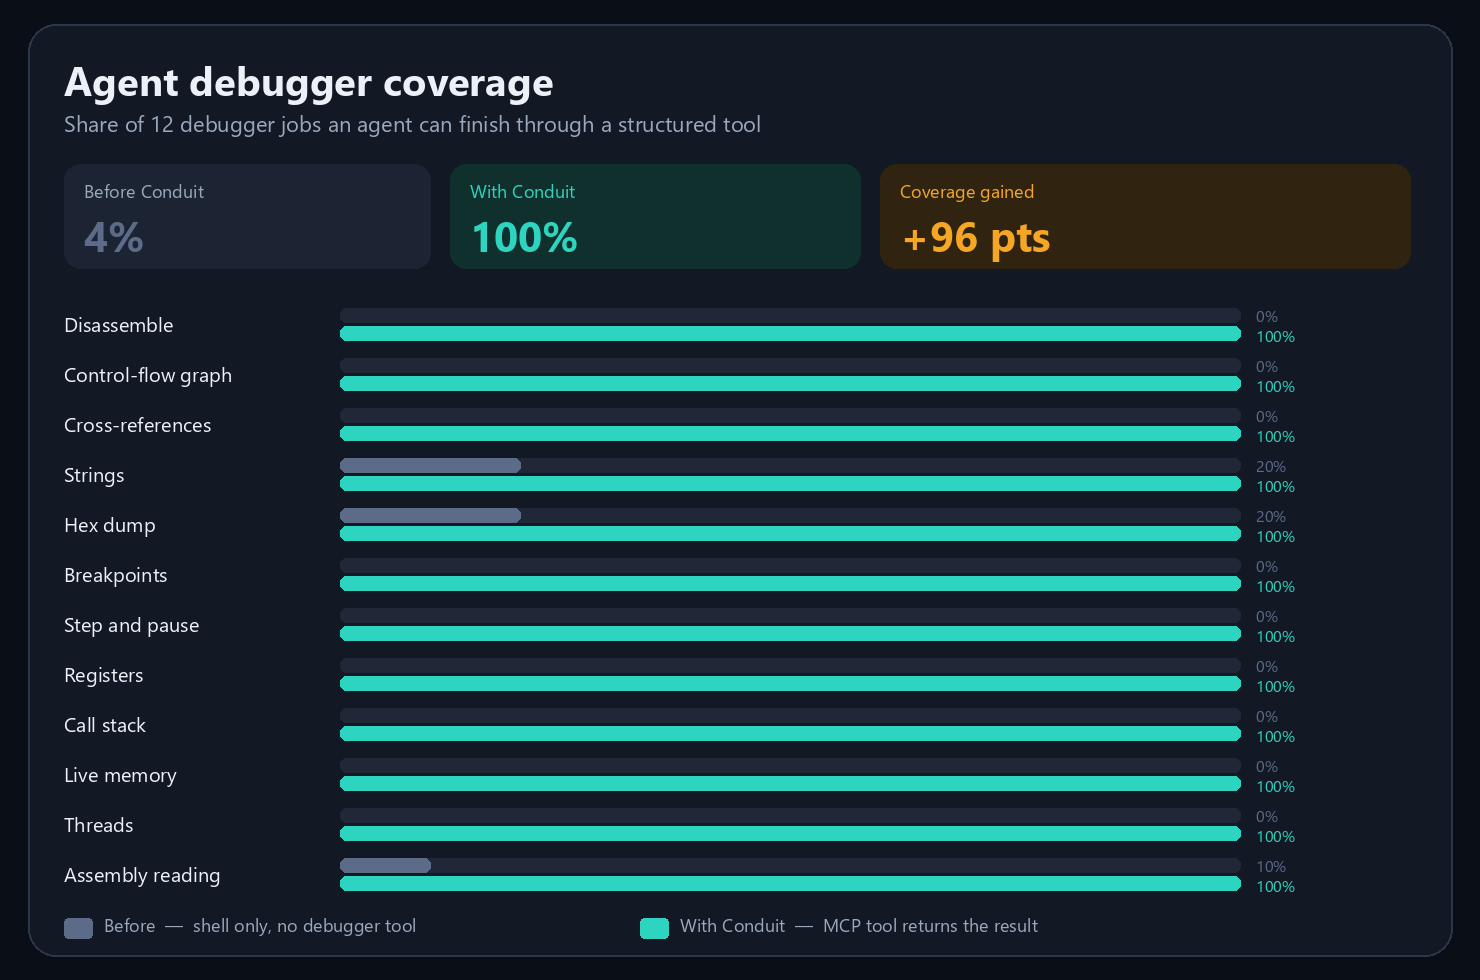
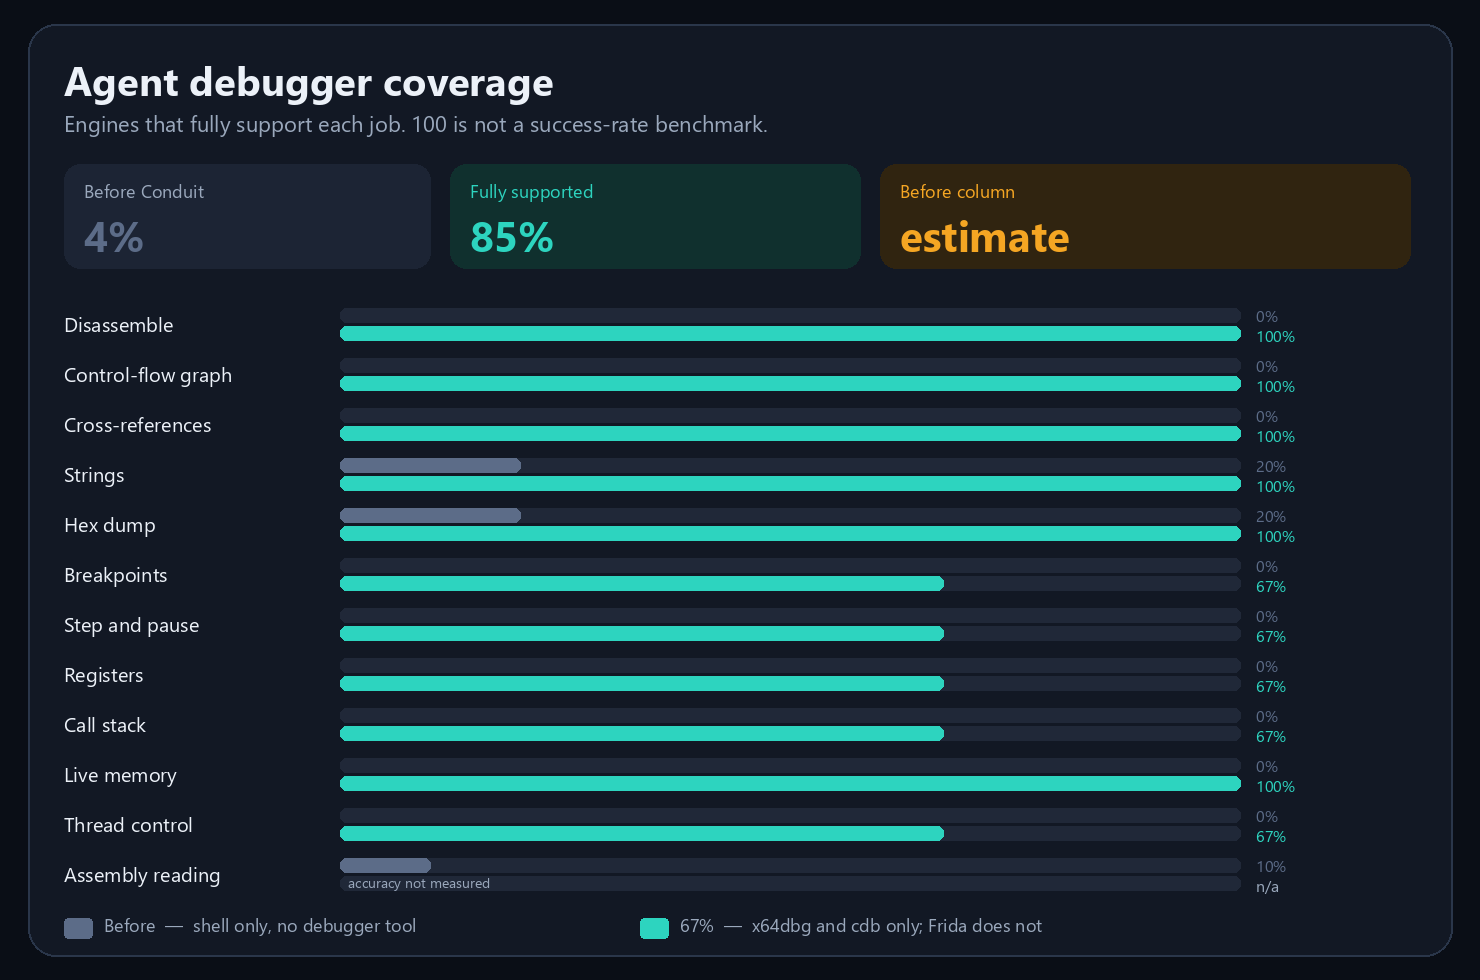
Correct the coverage chart so 100 percent is not claimed for every job.

diff --git a/assets/render_capability_chart.py b/assets/render_capability_chart.py
@@ -12,19 +12,23 @@ BEFORE = (92, 108, 136)
 AFTER = (45, 212, 191)
 AMBER = (245, 166, 35)
 
+# After = engines that fully support the job / engines that job applies to.
+# Static jobs apply to radare2. Live jobs apply to x64dbg, cdb, and Frida.
+# 67 = x64dbg and cdb only. Frida does not step, pause, or fully control threads.
+# Assembly reading has an explain tool; its accuracy was not measured.
 ROWS = [
     ("Disassemble", 0, 100),
     ("Control-flow graph", 0, 100),
     ("Cross-references", 0, 100),
     ("Strings", 20, 100),
     ("Hex dump", 20, 100),
-    ("Breakpoints", 0, 100),
-    ("Step and pause", 0, 100),
-    ("Registers", 0, 100),
-    ("Call stack", 0, 100),
+    ("Breakpoints", 0, 67),
+    ("Step and pause", 0, 67),
+    ("Registers", 0, 67),
+    ("Call stack", 0, 67),
     ("Live memory", 0, 100),
-    ("Threads", 0, 100),
-    ("Assembly reading", 10, 100),
+    ("Thread control", 0, 67),
+    ("Assembly reading", 10, None),
 ]
 
 
@@ -41,22 +45,23 @@ def main() -> None:
     draw.text((64, 52), "Agent debugger coverage", font=font(40, True), fill=TEXT)
     draw.text(
         (64, 108),
-        "Share of 12 debugger jobs an agent can finish through a structured tool",
+        "Engines that fully support each job. 100 is not a success-rate benchmark.",
         font=font(22),
         fill=MUTED,
     )
 
-    before_avg = round(sum(row[1] for row in ROWS) / len(ROWS))
-    after_avg = round(sum(row[2] for row in ROWS) / len(ROWS))
+    scored = [row for row in ROWS if row[2] is not None]
+    before_avg = round(sum(row[1] for row in scored) / len(scored))
+    after_avg = round(sum(row[2] for row in scored) / len(scored))
     draw.rounded_rectangle((64, 164, 430, 268), 16, fill=(28, 36, 52))
     draw.text((84, 178), "Before Conduit", font=font(18), fill=MUTED)
     draw.text((84, 206), f"{before_avg}%", font=font(42, True), fill=BEFORE)
     draw.rounded_rectangle((450, 164, 860, 268), 16, fill=(16, 48, 46))
-    draw.text((470, 178), "With Conduit", font=font(18), fill=AFTER)
+    draw.text((470, 178), "Fully supported", font=font(18), fill=AFTER)
     draw.text((470, 206), f"{after_avg}%", font=font(42, True), fill=AFTER)
     draw.rounded_rectangle((880, 164, 1410, 268), 16, fill=(48, 36, 16))
-    draw.text((900, 178), "Coverage gained", font=font(18), fill=AMBER)
-    draw.text((900, 206), f"+{after_avg - before_avg} pts", font=font(42, True), fill=AMBER)
+    draw.text((900, 178), "Before column", font=font(18), fill=AMBER)
+    draw.text((900, 206), "estimate", font=font(42, True), fill=AMBER)
 
     top = 300
     row_h = 50
@@ -70,14 +75,17 @@ def main() -> None:
         draw.rounded_rectangle((bar_x, y + 26, bar_x + bar_w, y + 40), 6, fill=track)
         if before:
             draw.rounded_rectangle((bar_x, y + 8, bar_x + max(8, int(bar_w * before / 100)), y + 22), 6, fill=BEFORE)
-        draw.rounded_rectangle((bar_x, y + 26, bar_x + int(bar_w * after / 100), y + 40), 6, fill=AFTER)
+        if after is None:
+            draw.text((bar_x + 8, y + 22), "accuracy not measured", font=font(14), fill=MUTED)
+        else:
+            draw.rounded_rectangle((bar_x, y + 26, bar_x + int(bar_w * after / 100), y + 40), 6, fill=AFTER)
         draw.text((bar_x + bar_w + 16, y + 4), f"{before}%", font=font(16), fill=BEFORE)
-        draw.text((bar_x + bar_w + 16, y + 24), f"{after}%", font=font(16), fill=AFTER)
+        draw.text((bar_x + bar_w + 16, y + 24), "n/a" if after is None else f"{after}%", font=font(16), fill=MUTED if after is None else AFTER)
 
     draw.rounded_rectangle((64, 918, 92, 938), 4, fill=BEFORE)
     draw.text((104, 912), "Before  —  shell only, no debugger tool", font=font(18), fill=MUTED)
     draw.rounded_rectangle((640, 918, 668, 938), 4, fill=AFTER)
-    draw.text((680, 912), "With Conduit  —  MCP tool returns the result", font=font(18), fill=MUTED)
+    draw.text((680, 912), "67%  —  x64dbg and cdb only; Frida does not", font=font(18), fill=MUTED)
 
     image.save("assets/capability-coverage.png", "PNG")
 

diff --git a/README.md b/README.md
@@ -10,10 +10,10 @@
 **Conduit** is an [MCP](https://modelcontextprotocol.io) debugger. One server connects Cursor, Claude, Cline, and any other MCP client to **radare2**, **x64dbg**, **cdb**, and **Frida** for disassembly, control-flow graphs, cross-references, strings, and live debugging.
 
 <p align="center">
-  <img src="assets/capability-coverage.png" alt="Debugger coverage rises from 4 percent before Conduit to 100 percent with Conduit, a gain of 96 points" width="920">
+  <img src="assets/capability-coverage.png" alt="Engine support for debugger jobs. Fully supported average is 85 percent. Five live jobs are 67 percent because Frida does not implement them. Assembly reading is not measured." width="920">
 </p>
 
-The bars score 12 debugger jobs. **Before** means a coding agent with a shell and no debugger tool: it can scrape strings or a hex dump, and it can narrate assembly only if someone pastes it. **With Conduit** means the same job returns from an MCP tool (`disassemble`, `get_cfg`, `xrefs`, `debug_*`, `explain`). Average coverage moves from **4%** to **100%** (**+96 points**). That is tool coverage, not a model-IQ benchmark. Strings, hex dump, and assembly reading stay above zero before Conduit because a shell or a pasted listing can still produce a partial answer.
+The bars are engine support, not a success-rate benchmark. **100%** means every engine that job applies to implements it: static jobs on radare2, and live memory on x64dbg, cdb, and Frida. **67%** means x64dbg and cdb only. Frida does not step, pause, or take full breakpoints and thread control; its registers and call stack are the last hardware-breakpoint hit, not a live read. **Assembly reading** has an `explain` tool, and its accuracy was not measured. The gray “before” percents are an estimate of what a shell can do with no debugger tool, not a measured baseline.
 
 Static analysis and live debugging share one tool surface. `session_open` picks the engine. Nothing is stubbed: a tool the engine does not implement returns `capability_unsupported`.
 
